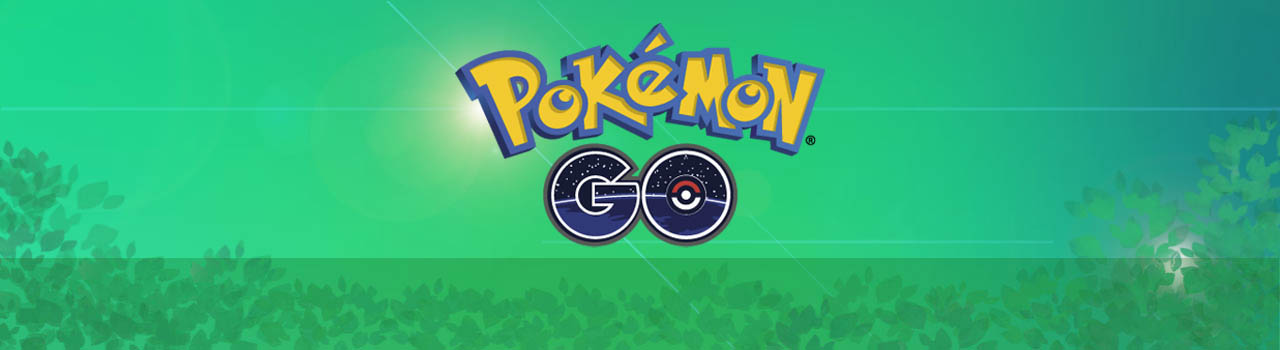
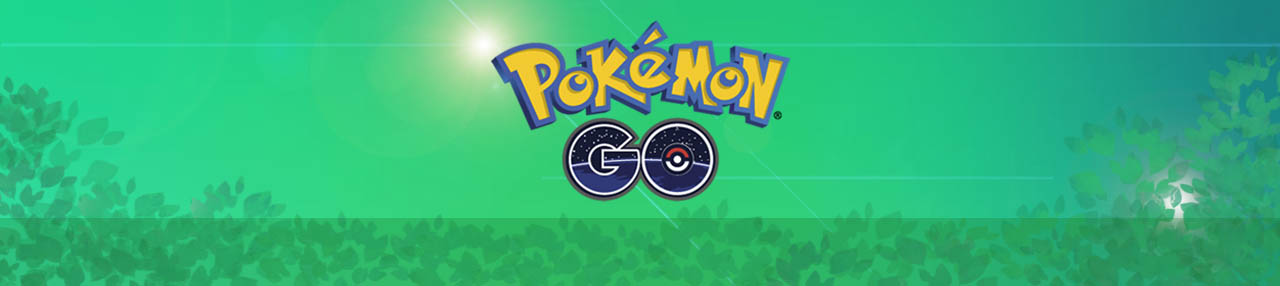
responsive

diff --git a/src/style.css b/src/style.css
@@ -60,11 +60,11 @@ header{
 }
 .search{
     width: 170px;
-    height: 28px;
+    height: 35px;
     background: #CDFEE1;
     border-radius: 5px;
     border: 4px solid #146C1D;
-    margin: 20px 18px 0 30px;
+    margin: 20px 12px 0 30px;
     display: inline-block;
     padding-left: 10px;
 }
@@ -88,32 +88,42 @@ i{
 }
 .portada{
     width: 100%;
-    background-size: auto;
+    height: auto;
+    background-size: cover;
 }
 
 /*barra de navegación horizontal - estilos generales*/
 .menu{
     position: relative;
-    bottom: 75px;
+    bottom: 80px;
+    width: 100%;
 }
-.navigation{
+.menu .navigation{
+    width: 60%;
+    margin: 10px auto;
+    max-width: 1000px;
     display: flex;
     justify-content: center;
+    background: #CDFEE1;
+    border-radius: 8px;
+    border: 5px solid #146C1D;
 }
-nav ul{
+.menuBar{
+    display: none;
+}
+.navigation ul{
     list-style: none;
-    padding: 0;
     justify-content: space-evenly;
 }
-nav li{
+.navigation li{
     line-height: 50px;
     display: flex;
     position: relative;
 }
-nav li ul{
+.navigation li ul{
     position: absolute;
 }
-nav li:hover {
+.navigation ul li:hover {
     background: rgba(6, 75, 21, 0.521);
 }
 /*nav ul ul{
@@ -121,24 +131,27 @@ nav li:hover {
 }para ocultar las sublistas mientras trabajas*/
 
 /*barra de navegación primer nivel*/
-nav > ul > li{
+.menu .navigation > ul > li{
     float: left;
 }
-nav > ul{
-    background: #CDFEE1;
-    width: 720px;
+.navigation > ul{
+    overflow: hidden;
+    width: 680px;
     height: 50px;
-    border-radius: 8px;
-    border: 5px solid #146C1D;
     font-size: 20px;
     font-weight: bold;
     color: #27377A;
     display: flex;
 }
+span{
+    display: flex;
+    align-items: center;
+    margin-right: 10px;
+}
+
 /*barra de navegacion segundo nivel*/
-nav li li{
+.navigation li li{
     max-height: 0;
-    overflow: hidden;
     transition: all .2s;
     width: 130px;
     background: #27377A;
@@ -146,22 +159,20 @@ nav li li{
     z-index: 2;
     color: #fff;
 }
-nav li:hover > ul > li {
+.navigation li:hover > ul > li {
     max-height: 500px;
     overflow: visible;
 }
-nav > ul > li > ul{
+.navigation > ul > li > ul{
     top: 100%;
 }
-nav ul ul{
-    left: 100%;
+.navigation ul ul{
     top: 0;
 }
 /*submenu type y cp*/
 
 .orderbtn{
     font-size: 16px;
-    width: 160px;
 }
 .menutype{
     font-size: 16px;
@@ -171,6 +182,8 @@ nav ul ul{
 main{
     padding: 0;
     margin: 0;
+    position: relative;
+    bottom: 50px;
 }
 .containerCard{
     display: flex;
@@ -181,7 +194,7 @@ main{
     flex-wrap: wrap;
 }
 .dataGeneral{
-    margin: 10px 20px 20px;
+    margin: 10px 15px 30px 15px;
     display: flex;
     text-align: center; 
     justify-content: center;
@@ -232,14 +245,12 @@ main{
 .types{
     width: 220px;
     height: 30px;
-    /*color:#fff;*/
     cursor: default;
-    /*background-color: #495743;
-    text-align: center;*/
     align-items: center;
     display: flex;
     justify-content: center;
 }
+/*estilo pie de páagina*/
 footer{
     display: flex;
     background: #27377A;

diff --git a/src/index.html b/src/index.html
@@ -1,16 +1,18 @@
 <!DOCTYPE html>
 <html>
   <head>
-    <meta charset="utf-8">
+    <meta charset="utf-8"> 
     <title>Data Lovers</title>
     <link rel="stylesheet" href="style.css" />
+    <link rel="stylesheet" href="icon.css">
     <link href="https://fonts.googleapis.com/css?family=Lato&display=swap" rel="stylesheet">
+    <meta name="viewport" content="width=device-width, user-scalable=no, initial-scale=1.0, maximum-scale=1.0, minimum-scale=1.0">
   </head>
 
   <body>
     <header>
       <div class="redes">
-        <label class="follow">Siguenos en:</label>
+        <label class="follow">Follow us on:</label>
         <a target = "_blank" href="https://www.facebook.com/PokemonGO/">
         <img src="img/facebook.png" alt="" class="fb">
         </a>
@@ -19,7 +21,7 @@
         </a> 
       </div>
         <div class="inputSearch">
-          <input type="text" id="search" class="search" placeholder="Buscar pokémon">
+          <input type="text" id="search" class="search" placeholder="Search pokémon">
           <i class="fas fa-search" id="searchGlass"></i>
         </div>
     </header>
@@ -31,10 +33,13 @@
     </section>
       
       <div class="menu">
+        <div class="menuBar">
+          <a href="#" class="btn-menu"><span class="icon-menu"></span></a>
+        </div>
         <nav class="navigation">
           <ul>
-            <li id="inicio">Inicio</li>
-            <li id="type">Type
+            <li id="Start">Start</li>
+            <li id="type"><span class="icon-circle-down"></span>Type
               <ul>
                 <li class="menutype" value="">Steel</li>
                 <li class="menutype" value="">Water</li>
@@ -56,7 +61,7 @@
                 <li class="menutype" value="">Flying</li>
               </ul>
             </li>
-            <li id="maxcp">Max-CP
+            <li id="maxcp"><span class="icon-circle-down"></span>Max-CP
               <ul>
                 <li id="mayor" class="orderbtn">From high to low</li>
                 <li id="menor" class="orderbtn">From low to hight</li> 
@@ -66,11 +71,9 @@
           </ul>
         </nav>
     </div>
-
     <main class="main">
       <section class="containerCard">
         <div class="container" id="dataGHTML">
-
         </div>
       </section>
     </main>
@@ -91,4 +94,4 @@
     <script src="main.js" type="module"></script>
     <script src="https://kit.fontawesome.com/9fd06027d3.js" crossorigin="anonymous"></script>
   </body>
-</html>chauu
+</html>

diff --git a/src/icon.css b/src/icon.css
@@ -1,0 +1,33 @@
+@font-face {
+  font-family: 'icomoon';
+  src:  url('fonts/icomoon.eot?g3fz2d');
+  src:  url('fonts/icomoon.eot?g3fz2d#iefix') format('embedded-opentype'),
+    url('fonts/icomoon.ttf?g3fz2d') format('truetype'),
+    url('fonts/icomoon.woff?g3fz2d') format('woff'),
+    url('fonts/icomoon.svg?g3fz2d#icomoon') format('svg');
+  font-weight: normal;
+  font-style: normal;
+  font-display: block;
+}
+
+[class^="icon-"], [class*=" icon-"] {
+  /* use !important to prevent issues with browser extensions that change fonts */
+  font-family: 'icomoon' !important;
+  speak: none;
+  font-style: normal;
+  font-weight: normal;
+  font-variant: normal;
+  text-transform: none;
+  line-height: 1;
+
+  /* Better Font Rendering =========== */
+  -webkit-font-smoothing: antialiased;
+  -moz-osx-font-smoothing: grayscale;
+}
+
+.icon-menu:before {
+  content: "\e9bd";
+}
+.icon-circle-down:before {
+  content: "\ea43";
+}
